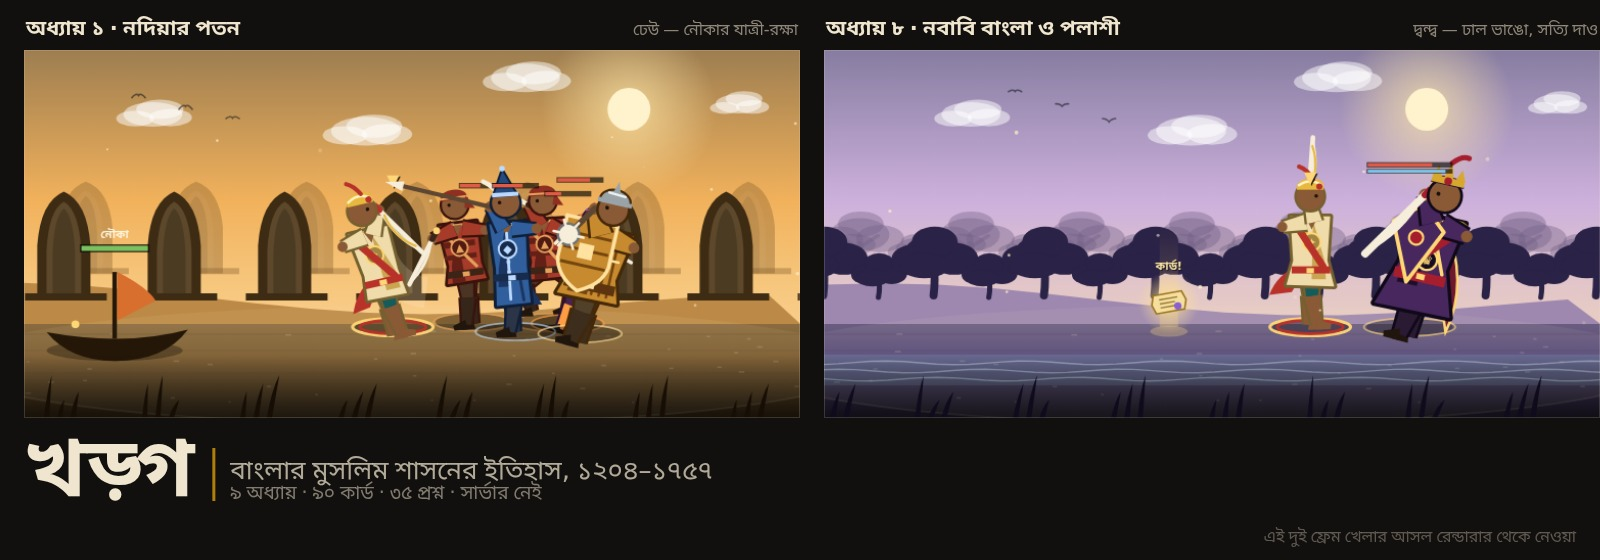
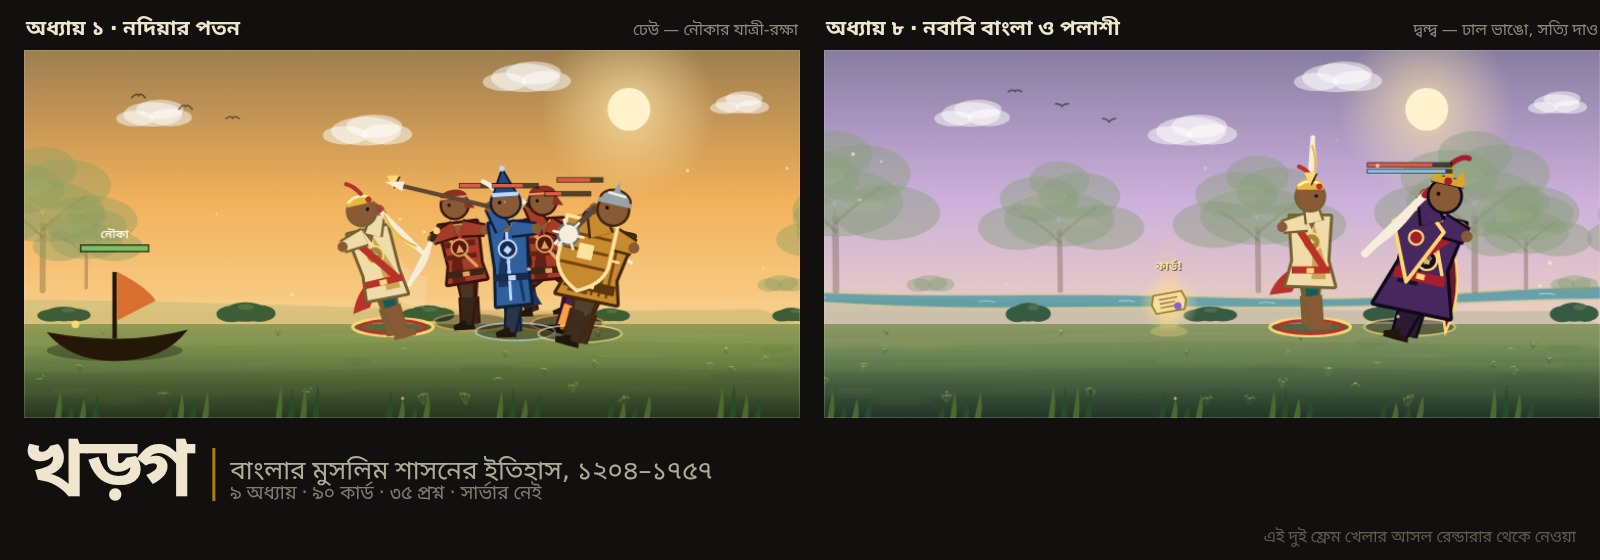
Refresh game background with open fields

diff --git a/src/render.ts b/src/render.ts
@@ -7,8 +7,8 @@
  *  · ডিফল্ট রূপ এখন পূর্ণ-রেজ্যোলিউশন HD (অর্ধ-রেজ পিক্সেল-রূপ টগলে অপশন);
  *  · চরিত্র মোটা-গড়া ভরা আকৃতি, হাঁটার চক্র, তলোয়ারের ঝাপটা-রেখা (swoosh),
  *    ধরনভেদে অস্ত্র/ঢাল/শরির (ঢালধারী, বর্শাধারী, দ্রুতগামী, বস);
- *  · ৪-তলা দৃশ্য: আকাশ (সূর্য, মেঘ, পাখি) → দূরের আকাশরেখা → কাছের স্থাপত্য
- *    (আলো-জানালা, পতাকা) → সামনের ঘাস/খাগড়া; ক্যামেরা-দোলন ও ঝাঁকুনি;
+ *  · ৪-তলা দৃশ্য: আকাশ (সূর্য, মেঘ, পাখি) → দিগন্তে দূরের বড় গাছ → খোলা
+ *    সবুজ মাঠ → সামনের ছোট গাছপালা; নির্বাচিত জায়গায় সরু নদী, সঙ্গে ক্যামেরা-দোলন ও ঝাঁকুনি;
  *  · কণা-ব্যবস্থা: ধুলো, ঝিলিক, টুকরো, ভাসা ধুলিকণা; hit-flash, ড্যাশ-ভূতছায়া।
  *
  * ইমেজ-ভিত্তিক ফ্রেম দরকার হলে এই এক ইন্টারফেস বদলেই ৩D→স্প্রাইট বেক বসবে —
@@ -21,7 +21,7 @@ import type { Sim } from './sim.ts';
 export interface ViewOpts {
   reduceMotion: boolean;
   colorblind: boolean;
-  /** অধ্যায়-ভিত্তিক রঙ (মাটি/নদী/ইট/সোনালি) — স্থাপত্য-অনুপ্রেরণা, ছবি নয়। */
+  /** অধ্যায়-ভিত্তিক রঙ — খোলা মাঠের সবুজে মিশে থাকে, ছবি নয়। */
   palette: Palette;
   /** পিক্সেল-আর্কেড মোড (ঐচ্ছিক স্মৃতি-রূপ): ব্যাকিং-স্টোর অর্ধেক + CRT ছায়া। */
   pixel?: boolean;
@@ -278,13 +278,14 @@ export class Renderer {
       this.shake *= 0.82;
     }
     ctx.translate(-this.camX * 0.35, 0);
-    ctx.save(); ctx.globalAlpha = 0.4;
-    this.backdrop(sim, P, tick, 0.45, mix(P.sky, P.ink, 0.5));
+    // কিছু অধ্যায়ে নদীটি দিগন্তের কাছাকাছি দেখা যায় — খেলার মাঠ খোলা থাকে।
+    if ([0, 2, 6, 7, 8].includes(sim.ch.id)) this.water(sim.ch.id, tick);
+    ctx.save(); ctx.globalAlpha = 0.44;
+    this.backdrop(sim, tick, 0.45, mix('#789b62', P.sky, 0.2));
     ctx.restore();
     this.groundPlane(sim, P, tick);
     ctx.translate(-this.camX * 0.65, 0);
-    this.backdrop(sim, P, tick, 1, mix(P.ink, P.ground, 0.3));
-    if (sim.ch.id === 0 || sim.ch.id >= 6) this.water(P, tick);
+    this.backdrop(sim, tick, 1, mix('#315d38', P.ground, 0.16));
 
     if (sim.objective) this.objectiveDraw(sim, P, tick);
     for (const pk of sim.pickups) this.pickupDraw(pk.x, GROUND + pk.y * 0.5, pk.life, pk.seed, P, tick);
@@ -351,96 +352,154 @@ export class Renderer {
         ctx.quadraticCurveTo(bx + 2, by - 3, bx + 7, by + flap); ctx.stroke();
       }
     }
-    // দূরের পাহাড়-রেখা
-    ctx.fillStyle = mix(P.sky, P.ink, 0.26);
-    ctx.beginPath(); ctx.moveTo(0, GROUND);
-    for (let x = 0; x <= W; x += 56) ctx.lineTo(x, GROUND - 20 - Math.sin(x * 0.008 + sim.ch.id * 1.7) * 13 - Math.sin(x * 0.0021 + 2) * 8);
-    ctx.lineTo(W, GROUND); ctx.closePath(); ctx.fill();
+    // আকাশ আর খেলার মাঠের মাঝে নরম, নিচু ঘাসের দিগন্ত — পাহাড় বা শহরের দেয়াল নয়।
+    ctx.fillStyle = 'rgba(107,151,83,.22)';
+    ctx.beginPath(); ctx.moveTo(0, GROUND - 15);
+    for (let x = 0; x <= W; x += 48) {
+      const ridge = GROUND - 17 - Math.sin(x * 0.006 + sim.ch.id * 1.7) * 4 - Math.sin(x * 0.0021 + 2) * 3;
+      ctx.lineTo(x, ridge);
+    }
+    ctx.lineTo(W, GROUND); ctx.lineTo(0, GROUND); ctx.closePath(); ctx.fill();
+    ctx.fillStyle = 'rgba(238,227,170,.12)';
+    ctx.fillRect(0, GROUND - 24, W, 12);
   }
 
   private groundPlane(sim: Sim, P: Palette, tick: number): void {
     const { ctx } = this;
-    ctx.fillStyle = this.linear(GROUND, H, [[0, mix(P.ground, '#ffe3ae', 0.13)], [0.35, P.ground], [1, mix(P.ground, '#000000', 0.62)]]);
+    ctx.fillStyle = this.linear(GROUND, H, [
+      [0, mix('#9bad60', P.ground, 0.2)],
+      [0.34, mix('#6f914d', P.ground, 0.16)],
+      [1, mix('#315a36', P.ground, 0.2)],
+    ]);
     ctx.fillRect(-60, GROUND, W + 160, H - GROUND + 10);
-    // লড়াইয়ের পাটাতন: হালকা ডিম্ব-মঞ্চ → চরিত্ররা ভাসে না, মঞ্চে বসে
-    ctx.fillStyle = 'rgba(255,240,200,.07)';
-    ctx.beginPath(); ctx.ellipse(W / 2, GROUND + 40, 450, 58, 0, 0, 6.283); ctx.fill();
-    ctx.strokeStyle = 'rgba(255,240,200,.13)'; ctx.lineWidth = 2;
-    ctx.beginPath(); ctx.ellipse(W / 2, GROUND + 40, 450, 58, 0, 0.2, Math.PI - 0.2); ctx.stroke();
-    // দৃষ্টি-রেখা ও মাটির দানা (স্থির হ্যাশে)
-    ctx.strokeStyle = 'rgba(0,0,0,.16)'; ctx.lineWidth = 1;
-    for (const [oy, a] of [[10, 0.5], [26, 0.36], [48, 0.26], [76, 0.18]] as const) {
-      ctx.globalAlpha = a; ctx.beginPath(); ctx.moveTo(-40, GROUND + oy); ctx.lineTo(W + 80, GROUND + oy); ctx.stroke();
-    }
-    ctx.globalAlpha = 1;
-    ctx.fillStyle = 'rgba(255,244,210,.16)';
-    for (let i = 0; i < 46; i++) {
-      const gx = ((hash(i * 3 + 1) * (W + 120) - (sim.player.x * 0.08) % 60) + W + 120) % (W + 120) - 60;
-      const gy = GROUND + 6 + hash(i * 5 + 2) * (H - GROUND - 16);
-      ctx.fillRect(gx, gy, 2 + hash(i) * 4, 1.6);
-    }
-    void tick;
-  }
 
-  private water(P: Palette, tick: number): void {
-    const { ctx } = this;
-    ctx.fillStyle = 'rgba(150,220,240,.15)';
-    ctx.fillRect(-40, GROUND + 30, W + 120, 30);
-    ctx.strokeStyle = 'rgba(220,245,255,.4)'; ctx.lineWidth = 1.4;
-    for (let r = 0; r < 3; r++) {
+    // মাঠের নরম ঢেউ—মঞ্চের ডিম্বাকার দাগ বা শহরের পাথর-রেখা নয়।
+    ctx.save(); ctx.lineWidth = 9; ctx.lineCap = 'round';
+    for (const [offset, alpha] of [[15, 0.07], [39, 0.055], [67, 0.04]] as const) {
+      ctx.strokeStyle = `rgba(210,218,137,${alpha})`;
       ctx.beginPath();
-      for (let x = -20; x <= W + 40; x += 16) {
-        const y = GROUND + 38 + r * 8 + Math.sin((x + tick * (this.opts.reduceMotion ? 0 : 1.2)) / 22 + r * 2) * 1.8;
-        if (x === -20) ctx.moveTo(x, y); else ctx.lineTo(x, y);
+      for (let x = -60; x <= W + 80; x += 36) {
+        const y = GROUND + offset + Math.sin(x * 0.008 + sim.ch.id) * 2.4 + Math.sin(x * 0.002 + offset) * 1.8;
+        if (x === -60) ctx.moveTo(x, y); else ctx.lineTo(x, y);
       }
       ctx.stroke();
     }
-    ctx.fillStyle = mix(P.accent, '#ffffff', 0.3);
+    ctx.restore();
+
+    // ঘাসের রঙে হালকা এলোমেলো ছোপ—একই বীজে একই জায়গায় থাকে।
+    for (let i = 0; i < 15; i++) {
+      const span = W + 150;
+      const raw = hash(i * 19 + 5) * span - sim.player.x * 0.08;
+      const x = ((raw % span) + span) % span - 70;
+      const y = GROUND + 12 + hash(i * 31 + 9) * (H - GROUND - 20);
+      ctx.fillStyle = i % 2 ? 'rgba(190,196,111,.07)' : 'rgba(36,83,45,.07)';
+      ctx.beginPath(); ctx.ellipse(x, y, 14 + hash(i * 7) * 27, 2 + hash(i * 11) * 4, 0, 0, 6.283); ctx.fill();
+    }
+
+    // দূরত্ব অনুযায়ী ছোট হয়ে আসা বুনো ঘাস আর মাঠের গাছপালা।
+    for (let i = 0; i < 30; i++) {
+      const span = W + 120;
+      const raw = hash(i * 3 + 1) * span - sim.player.x * 0.1;
+      const x = ((raw % span) + span) % span - 60;
+      const y = GROUND + 7 + hash(i * 5 + 2) * (H - GROUND - 12);
+      const depth = (y - GROUND) / (H - GROUND);
+      this.plant(ctx, x, y, 5 + depth * 8, i + sim.ch.id * 37, tick, P);
+    }
   }
 
-  private backdrop(sim: Sim, P: Palette, tick: number, depth: number, color: string): void {
+  private plant(ctx: CanvasRenderingContext2D, x: number, y: number, size: number, seed: number, tick: number, P: Palette): void {
+    const sway = this.opts.reduceMotion ? 0 : Math.sin((tick + seed * 11) / 22) * size * 0.075;
+    const stem = seed % 2 === 0 ? mix('#547b3e', P.ground, 0.12) : mix('#73934a', P.ground, 0.12);
+    ctx.save(); ctx.lineCap = 'round';
+    for (let i = -1; i <= 1; i++) {
+      const height = size * (0.58 + hash(seed * 7 + i + 2) * 0.42);
+      const tipX = x + i * size * 0.42 + sway;
+      const tipY = y - height;
+      ctx.strokeStyle = stem; ctx.lineWidth = Math.max(0.8, size * 0.1);
+      ctx.beginPath(); ctx.moveTo(x + i * size * 0.08, y);
+      ctx.quadraticCurveTo(x + i * size * 0.28 + sway * 0.45, y - height * 0.55, tipX, tipY); ctx.stroke();
+      ctx.fillStyle = i === 0 ? 'rgba(175,197,105,.8)' : 'rgba(133,171,79,.78)';
+      ctx.beginPath(); ctx.ellipse(tipX - i * size * 0.13, tipY + size * 0.11, size * 0.2, size * 0.075, i * 0.6, 0, 6.283); ctx.fill();
+    }
+    if (hash(seed * 13 + 3) > 0.72) {
+      ctx.fillStyle = 'rgba(248,220,151,.82)'; ctx.beginPath(); ctx.arc(x + sway, y - size * 0.82, Math.max(0.8, size * 0.08), 0, 6.283); ctx.fill();
+    }
+    ctx.restore();
+  }
+
+  private water(chapterId: number, tick: number): void {
     const { ctx } = this;
-    const id = sim.ch.id;
-    const drift = (tick * 0.05 * depth * (this.opts.reduceMotion ? 0 : 1) + sim.player.x * 0.05 * depth) % 108;
-    if (depth < 1) { ctx.translate(0, 20 * (1 - depth)); ctx.scale(1, 0.85); }
-    ctx.fillStyle = color;
-    for (let i = -1; i < 8; i++) {
-      const x = 40 + i * 108 - drift;
-      switch (true) {
-        case id === 0: this.chala(ctx, x, 244, 78, 48); break;
-        case id <= 2: this.arch(ctx, x + 12, 244, 52, 96); this.bar(ctx, x, 238, 80, 7); break;
-        case id === 3: this.domeRow(ctx, x, 218, 3, 20, 64); break;
-        case id === 4: this.domeRow(ctx, x - 6, 210, 5, 15, 94); this.bands(ctx, x - 6, 252, 94, 3); break;
-        case id === 5: this.battlement(ctx, x, 200, 88, 48, tick); this.arch(ctx, x + 20, 246, 42, 48); break;
-        case id === 6: this.battlement(ctx, x + 4, 206, 72, 42, tick); break;
-        case id === 7: this.dome(ctx, x + 30, 212, 27); this.bar(ctx, x + 4, 178, 8, 76); this.battlement(ctx, x + 44, 218, 42, 30, tick); break;
-        default: this.tree(ctx, x + 22, 240, 56); this.tree(ctx, x + 76, 242, 36); break;
+    const flow = this.opts.reduceMotion ? 0 : tick * 0.42;
+    const bend = chapterId * 0.73;
+    const centerY = (x: number): number => GROUND - 25 + Math.sin(x * 0.006 + bend) * 4.5 + Math.sin(x * 0.014 - bend) * 1.8;
+    const halfWidth = (x: number): number => 5.5 + Math.sin(x * 0.01 + bend) * 1.2;
+    const start = -40, end = W + 40, step = 16;
+
+    // সরু, আঁকাবাঁকা নদীটি দূরের জমির ফাঁকে দেখা যায়—যোদ্ধাদের পায়ের কাছে নয়।
+    ctx.save(); ctx.lineJoin = 'round'; ctx.lineCap = 'round';
+    ctx.beginPath();
+    for (let x = start; x <= end; x += step) {
+      const y = centerY(x) - halfWidth(x);
+      if (x === start) ctx.moveTo(x, y); else ctx.lineTo(x, y);
+    }
+    for (let x = end; x >= start; x -= step) ctx.lineTo(x, centerY(x) + halfWidth(x));
+    ctx.closePath(); ctx.fillStyle = 'rgba(65,147,162,.76)'; ctx.fill();
+
+    ctx.strokeStyle = 'rgba(222,207,150,.62)'; ctx.lineWidth = 2.3;
+    for (const edge of [-1, 1] as const) {
+      ctx.beginPath();
+      for (let x = start; x <= end; x += step) {
+        const y = centerY(x) + edge * halfWidth(x);
+        if (x === start) ctx.moveTo(x, y); else ctx.lineTo(x, y);
       }
-      // কাছের স্তরে আলো-জানালা: নগর জীবন্ত লাগে
-      if (depth === 1 && id >= 2 && id <= 7) {
-        ctx.save(); ctx.fillStyle = 'rgba(255,196,96,.75)';
-        for (let w = 0; w < 3; w++) {
-          if (hash(i * 31 + w * 7) > 0.45) ctx.fillRect(x + 12 + hash(i * 13 + w) * 58, 222 + w * 9, 3.4, 4.6);
+      ctx.stroke();
+    }
+    ctx.strokeStyle = 'rgba(215,243,221,.58)'; ctx.lineWidth = 1.1;
+    for (let i = 0; i < 6; i++) {
+      const x = ((i * 137 + flow) % (W + 90)) - 40;
+      const y = centerY(x);
+      ctx.beginPath(); ctx.moveTo(x - 7, y); ctx.quadraticCurveTo(x, y - 1.2, x + 8, y + 0.4); ctx.stroke();
+    }
+    ctx.restore();
+  }
+
+  private backdrop(sim: Sim, tick: number, depth: number, color: string): void {
+    const { ctx } = this;
+    const far = depth < 1;
+    const spacing = far ? 210 : 178;
+    const drift = (tick * 0.025 * depth * (this.opts.reduceMotion ? 0 : 1) + sim.player.x * 0.025 * depth) % spacing;
+    if (far) { ctx.translate(0, 20 * (1 - depth)); ctx.scale(1, 0.85); }
+
+    for (let i = -2; i < 7; i++) {
+      const x = 30 + i * spacing - drift;
+      const seed = (i + 19) * 31 + sim.ch.id * 59 + (far ? 0 : 1000);
+      if (far) {
+        // ফাঁক-ফাঁক বড় গাছ—দূরের সবুজ দিগন্ত, ঘন জঙ্গল নয়।
+        if (hash(seed) > 0.16) {
+          const h = 116 + hash(seed + 1) * 34;
+          const tx = x + (hash(seed + 2) - 0.5) * 18;
+          this.tree(ctx, tx, GROUND - 4, h, seed, tick, color);
+          if (hash(seed + 3) > 0.54) {
+            const side = hash(seed + 4) > 0.5 ? 1 : -1;
+            this.tree(ctx, tx + side * (42 + hash(seed + 5) * 18), GROUND - 7, h * (0.52 + hash(seed + 6) * 0.16), seed + 1, tick, color);
+          }
         }
-        ctx.restore(); ctx.fillStyle = color;
+        if (hash(seed + 8) > 0.72) this.bush(ctx, x + 90, GROUND - 5, 48, 18, color, seed + 8);
+      } else {
+        // কাছের দিগন্তে কেবল নিচু ঝোপ—খোলা মাঠ ও নদীর ফাঁক যেন ঢাকা না পড়ে।
+        if (hash(seed + 9) > 0.5) this.bush(ctx, x + 30, GROUND - 4, 38 + hash(seed + 10) * 24, 12 + hash(seed + 11) * 8, color, seed + 9);
+        if (hash(seed + 12) > 0.91) this.tree(ctx, x + 112, GROUND - 5, 76 + hash(seed + 13) * 16, seed + 12, tick, color);
       }
     }
   }
-  private arch(ctx: CanvasRenderingContext2D, x: number, y: number, w: number, h: number): void {
-    const path = (inset: number): void => {
-      const ix = x + inset, iw = w - inset * 2, ih = h - inset;
-      ctx.beginPath();
-      ctx.moveTo(ix, y); ctx.lineTo(ix, y - ih * 0.55);
-      ctx.quadraticCurveTo(ix + iw * 0.06, y - ih, ix + iw / 2, y - ih - ih * 0.1);
-      ctx.quadraticCurveTo(ix + iw * 0.94, y - ih, ix + iw, y - ih * 0.55);
-      ctx.lineTo(ix + iw, y); ctx.closePath();
-    };
-    path(0); ctx.fill();
-    ctx.save();
-    ctx.fillStyle = 'rgba(255,226,170,.16)';   // ভেতরের অবতল খিলান — দেওয়ালে গভীরতা
-    path(9); ctx.fill();
-    ctx.fillStyle = 'rgba(0,0,0,.18)';
-    path(15); ctx.fill();
+
+  private bush(ctx: CanvasRenderingContext2D, x: number, y: number, w: number, h: number, color: string, seed: number): void {
+    ctx.save(); ctx.fillStyle = color;
+    ctx.beginPath(); ctx.ellipse(x, y - h * 0.42, w * 0.34, h * 0.52, 0, 0, 6.283); ctx.fill();
+    ctx.beginPath(); ctx.ellipse(x - w * 0.23, y - h * 0.31, w * 0.25, h * 0.43, 0, 0, 6.283); ctx.fill();
+    ctx.beginPath(); ctx.ellipse(x + w * 0.22, y - h * 0.34, w * 0.27, h * 0.45, 0, 0, 6.283); ctx.fill();
+    ctx.fillStyle = 'rgba(193,207,126,.18)';
+    ctx.beginPath(); ctx.ellipse(x + (hash(seed) - 0.5) * w * 0.28, y - h * 0.68, w * 0.13, h * 0.16, 0, 0, 6.283); ctx.fill();
     ctx.restore();
   }
   private chala(ctx: CanvasRenderingContext2D, x: number, y: number, w: number, h: number): void {
@@ -451,49 +510,33 @@ export class Renderer {
     ctx.lineTo(x + w * 0.86, y - h * 0.16); ctx.lineTo(x + w * 0.14, y - h * 0.16);
     ctx.closePath(); ctx.fill();
   }
-  private domeRow(ctx: CanvasRenderingContext2D, x: number, y: number, n: number, r: number, w: number): void {
-    ctx.fillRect(x, y, w, 44);
-    const step = w / (n + 1);
-    for (let i = 0; i < n; i++) this.dome(ctx, x + step * (i + 1), y, r);
-    ctx.fillRect(x - 5, y - 15, 7, 59); ctx.fillRect(x + w - 2, y - 15, 7, 59);
-  }
-  private dome(ctx: CanvasRenderingContext2D, x: number, y: number, r: number): void {
-    ctx.beginPath();
-    ctx.moveTo(x - r, y);
-    ctx.quadraticCurveTo(x - r, y - r * 1.15, x, y - r * 1.45);
-    ctx.quadraticCurveTo(x + r, y - r * 1.15, x + r, y);
-    ctx.closePath(); ctx.fill();
-    ctx.fillRect(x - 1.2, y - r * 1.45 - 6, 2.4, 6);
-  }
-  private battlement(ctx: CanvasRenderingContext2D, x: number, y: number, w: number, h: number, tick = 0): void {
-    ctx.fillRect(x, y, w, h);
-    for (let i = 0; i < 5; i++) ctx.fillRect(x + i * (w / 5), y - 9, w / 10, 9);
-    // বাতাসে দুলতে থাকা নিশানা
-    const fx = x + w / 2;
-    ctx.fillRect(fx - 1, y - 30, 2, 22);
-    const wave = this.opts.reduceMotion ? 0 : Math.sin((tick + x) / 7) * 3;
-    ctx.beginPath(); ctx.moveTo(fx + 1, y - 30); ctx.lineTo(fx + 17, y - 25 + wave); ctx.lineTo(fx + 1, y - 20); ctx.closePath(); ctx.fill();
-  }
-  private bar(ctx: CanvasRenderingContext2D, x: number, y: number, w: number, h: number): void { ctx.fillRect(x, y, w, h); }
-  private bands(ctx: CanvasRenderingContext2D, x: number, y: number, w: number, n: number): void {
-    ctx.save(); ctx.globalAlpha = 0.5; ctx.fillStyle = 'rgba(255,235,200,.5)';
-    for (let i = 0; i < n; i++) ctx.fillRect(x + 3, y + 4 + i * 7, w - 6, 2);
-    ctx.restore();
-  }
-  private tree(ctx: CanvasRenderingContext2D, x: number, y: number, h: number): void {
+
+  private tree(ctx: CanvasRenderingContext2D, x: number, y: number, h: number, seed: number, tick: number, color: string): void {
     ctx.save();
-    const col = ctx.fillStyle as unknown as string;
-    ctx.strokeStyle = col; ctx.lineCap = 'round';
-    ctx.lineWidth = Math.max(5, h * 0.14);
-    ctx.beginPath(); ctx.moveTo(x, y); ctx.quadraticCurveTo(x + 2, y - h * 0.3, x, y - h * 0.52); ctx.stroke();
-    ctx.lineWidth = Math.max(3, h * 0.07);
-    ctx.beginPath(); ctx.moveTo(x, y - h * 0.42); ctx.lineTo(x - h * 0.3, y - h * 0.66); ctx.stroke();
-    ctx.beginPath(); ctx.moveTo(x, y - h * 0.46); ctx.lineTo(x + h * 0.32, y - h * 0.7); ctx.stroke();
-    ctx.fillStyle = col;
-    const cy = y - h * 0.72;
-    for (const [ox, oy, rx, ry] of [[0, 0, 0.52, 0.34], [-0.34, 0.1, 0.4, 0.27], [0.36, 0.08, 0.42, 0.28], [0.02, -0.22, 0.4, 0.26], [-0.16, 0.2, 0.44, 0.22]] as const) {
-      ctx.beginPath(); ctx.ellipse(x + ox * h, cy + oy * h, rx * h, ry * h, 0, 0, 6.283); ctx.fill();
+    const sway = this.opts.reduceMotion ? 0 : Math.sin((tick + seed * 7) / 31) * h * 0.008;
+    const crownY = y - h * 0.7;
+
+    // সরু বাদামি কাণ্ড আর ছড়ানো ডাল—দূরের বড় গাছের আকৃতি।
+    ctx.strokeStyle = 'rgba(93,72,43,.72)'; ctx.lineCap = 'round';
+    ctx.lineWidth = Math.max(2.4, h * 0.045);
+    ctx.beginPath(); ctx.moveTo(x, y); ctx.quadraticCurveTo(x + sway * 0.2, y - h * 0.32, x + sway, crownY + h * 0.12); ctx.stroke();
+    ctx.lineWidth = Math.max(1.6, h * 0.025);
+    ctx.beginPath(); ctx.moveTo(x + sway * 0.4, crownY + h * 0.23); ctx.quadraticCurveTo(x - h * 0.15, crownY + h * 0.05, x - h * 0.3 + sway, crownY - h * 0.04); ctx.stroke();
+    ctx.beginPath(); ctx.moveTo(x + sway * 0.7, crownY + h * 0.16); ctx.quadraticCurveTo(x + h * 0.16, crownY - h * 0.02, x + h * 0.31 + sway, crownY - h * 0.12); ctx.stroke();
+
+    // গোল, ছড়ানো পাতার মুকুট; হালকা পাতার ছোপে সিলুয়েটটা একরঙা লাগে না।
+    ctx.fillStyle = color;
+    const leaves = [
+      [0, 0, 0.46, 0.27], [-0.34, 0.08, 0.34, 0.22], [0.35, 0.08, 0.36, 0.22],
+      [-0.17, -0.2, 0.33, 0.22], [0.17, -0.23, 0.34, 0.23], [0, -0.38, 0.25, 0.19],
+    ] as const;
+    for (const [ox, oy, rx, ry] of leaves) {
+      ctx.beginPath(); ctx.ellipse(x + ox * h + sway, crownY + oy * h, rx * h, ry * h, 0, 0, 6.283); ctx.fill();
     }
+    ctx.save(); ctx.globalAlpha *= 0.17; ctx.fillStyle = '#d8df9a';
+    ctx.beginPath(); ctx.ellipse(x - h * 0.13 + sway, crownY - h * 0.2, h * 0.2, h * 0.08, -0.16, 0, 6.283); ctx.fill();
+    ctx.beginPath(); ctx.ellipse(x + h * 0.18 + sway, crownY + h * 0.02, h * 0.16, h * 0.06, 0.12, 0, 6.283); ctx.fill();
+    ctx.restore();
     ctx.restore();
   }
 
@@ -688,20 +731,26 @@ export class Renderer {
 
   private foreground(sim: Sim, P: Palette, tick: number): void {
     const { ctx } = this;
-    const drift = (sim.player.x * 0.18 + tick * 0.03 * (this.opts.reduceMotion ? 0 : 1)) % 96;
+    const drift = (sim.player.x * 0.18 + tick * 0.03 * (this.opts.reduceMotion ? 0 : 1)) % 108;
     ctx.save();
-    ctx.fillStyle = this.linear(GROUND + 30, H, [[0, 'rgba(0,0,0,0)'], [1, 'rgba(4,3,2,.55)']]);
+    ctx.fillStyle = this.linear(GROUND + 30, H, [[0, 'rgba(0,0,0,0)'], [1, 'rgba(4,3,2,.4)']]);
     ctx.fillRect(0, GROUND + 30, W, H - GROUND);
-    ctx.fillStyle = mix(P.ink, '#000000', 0.4);
     ctx.beginPath(); ctx.rect(0, GROUND + 34, W, H); ctx.clip();
     for (let i = -1; i < 9; i++) {
-      const x = i * 96 - drift;
-      for (let k = 0; k < 3; k++) {
-        const bx = x + k * 13, hh = 18 + ((i * 7 + k * 5) % 4) * 8;
-        const sway = this.opts.reduceMotion ? 0 : Math.sin((tick + bx) / 13) * 2.4;
-        ctx.beginPath(); ctx.moveTo(bx, H);
-        ctx.quadraticCurveTo(bx + 3 + sway * 0.4, H - hh * 0.6, bx + 8 + k + sway, H - hh);
-        ctx.lineTo(bx + 5, H); ctx.closePath(); ctx.fill();
+      const x = i * 108 - drift;
+      for (let k = 0; k < 4; k++) {
+        const bx = x + k * 12;
+        const hh = 12 + hash(i * 17 + k * 9 + 3) * 22;
+        const sway = this.opts.reduceMotion ? 0 : Math.sin((tick + bx) / 17) * 2.2;
+        ctx.fillStyle = (i + k) % 2 === 0 ? 'rgba(39,78,39,.92)' : 'rgba(79,112,48,.88)';
+        ctx.beginPath(); ctx.moveTo(bx - 1.5, H);
+        ctx.quadraticCurveTo(bx + 2 + sway * 0.35, H - hh * 0.62, bx + 5 + sway, H - hh);
+        ctx.quadraticCurveTo(bx + 7 + sway * 0.35, H - hh * 0.44, bx + 4.5, H);
+        ctx.closePath(); ctx.fill();
+        if ((i * 4 + k) % 17 === 0) {
+          ctx.fillStyle = mix('#c7bb73', P.ground, 0.12);
+          ctx.beginPath(); ctx.arc(bx + 5 + sway, H - hh, 1.5, 0, 6.283); ctx.fill();
+        }
       }
     }
     ctx.restore();

diff --git a/README.md b/README.md
@@ -36,7 +36,7 @@
 | **ইঞ্জিন** | নিজে লেখা, ৬০Hz ফিক্সড-স্টেপ, কোনো ফ্রেমওয়ার্ক নয়। লড়াইয়ের পুরো নিয়ম `src/frames.ts`-এর এক-টেবিলে, আর ওই টেবিলই টেস্টে আটকানো |
 | **লড়াই** | ১৭টি ঢেউ (রক্ষা-মিশন) + ৮টি দ্বন্দ্ব (ঢাল-ভাঙা + প্রশ্ন) + অসীম ঢেউ ও সত্য-দৌড়। টানা-আঘাত, স্কোর, তারা — কিন্তু জয়ের শর্ত সর্বদা *কিছু বাঁচানো*, কখনও *সব মারা* নয় |
 | **পড়াশোনা** | মাঠে সোনালি স্ক্রল তুললেই কার্ড খোলে (সংকল্প + বোনাস + স্কোর); ঢাল ভাঙলে সময় ধীরে চলে যাতে প্রশ্ন সত্যিই পড়া যায়; ফলাফলে "যা শিখলে"-র পুনরালোচনা, আর সত্য-দৌড়ে ভুলগুলো শেষে শেখানো হয় |
-| **আর্ট ও শব্দ** | আধুনিক HD ছায়া-পুতুল: চার-তলা প্যারালাক্স, হাঁটার চক্র, তলোয়ারের ঝাপটা, কণা-এফেক্স, ক্যামেরা-দোলন (পিক্সেল-রূপ টগলে ঐচ্ছিক)। নায়ক, প্রতিটি শত্রু-ধরন, বস ও মিত্রের আলাদা পোশাক, মাথার ঢাকা, বুকের প্রতীক, অস্ত্র ও গড়ন; শরীরের সংঘর্ষে মূর্তিগুলো একে অপরের ভেতর মিশে যায় না। সব শব্দ কোডে বানানো (WebAudio): প্রথম পর্দায় স্পষ্ট শব্দ-ফটক, তারপর ঢোলের তাল, বাতাস, নিজের ও শত্রুর সুইং, সতর্ক-ঝলকের বিপসহ লড়াইয়ের SFX — ফাইল ছাড়াই। রক্ত, মৃতদেহ নেই |
+| **আর্ট ও শব্দ** | আধুনিক HD ছায়া-পুতুল: চার-তলা প্যারালাক্স—আকাশ, দিগন্তে বড় গাছ, খোলা সবুজ মাঠ, ছোট গাছপালা; নির্বাচিত অধ্যায়ে দূরে আঁকাবাঁকা নদী। হাঁটার চক্র, তলোয়ারের ঝাপটা, কণা-এফেক্স, ক্যামেরা-দোলন (পিক্সেল-রূপ টগলে ঐচ্ছিক)। নায়ক, প্রতিটি শত্রু-ধরন, বস ও মিত্রের আলাদা পোশাক, মাথার ঢাকা, বুকের প্রতীক, অস্ত্র ও গড়ন; শরীরের সংঘর্ষে মূর্তিগুলো একে অপরের ভেতর মিশে যায় না। সব শব্দ কোডে বানানো (WebAudio): প্রথম পর্দায় স্পষ্ট শব্দ-ফটক, তারপর ঢোলের তাল, বাতাস, নিজের ও শত্রুর সুইং, সতর্ক-ঝলকের বিপসহ লড়াইয়ের SFX — ফাইল ছাড়াই। রক্ত, মৃতদেহ নেই |
 | **সাইজ** | খেলা ০.৪২MB (ফন্টসহ), নকশা-ব্রিফসহ সাইট ০.৪৮MB; ৬MB-তে ছাড়ালে **বিল্ড থামে** |
 | **নির্ভরতা** | প্রোডাকশনে দুটো ফন্টই — Hind Siliguri ১৪+১৪KB, Noto Sans Bengali ৪৪+৪৬KB (মোট ১১৮KB)। বাকি সব ভ্যানিলা টাইপস্ক্রিপ্ট + ক্যানভাস |
 | **অফলাইন + তাজা** | Service Worker, কোনো CDN/অ্যানালিটিক্স/ট্র্যাকার নেই — একবার খুললে পরে ইন্টারনেট লাগে না, অথচ নতুন বিল্ড তবু পৌঁছোয়: শেল নেটওয়ার্ক-আগে, অ্যাসেটে `?v=<রিভিশন>`, ক্যাশের নামই রিভিশন, আর টাইটেল-পর্দায় **সংস্করণ-ছাপ** |
